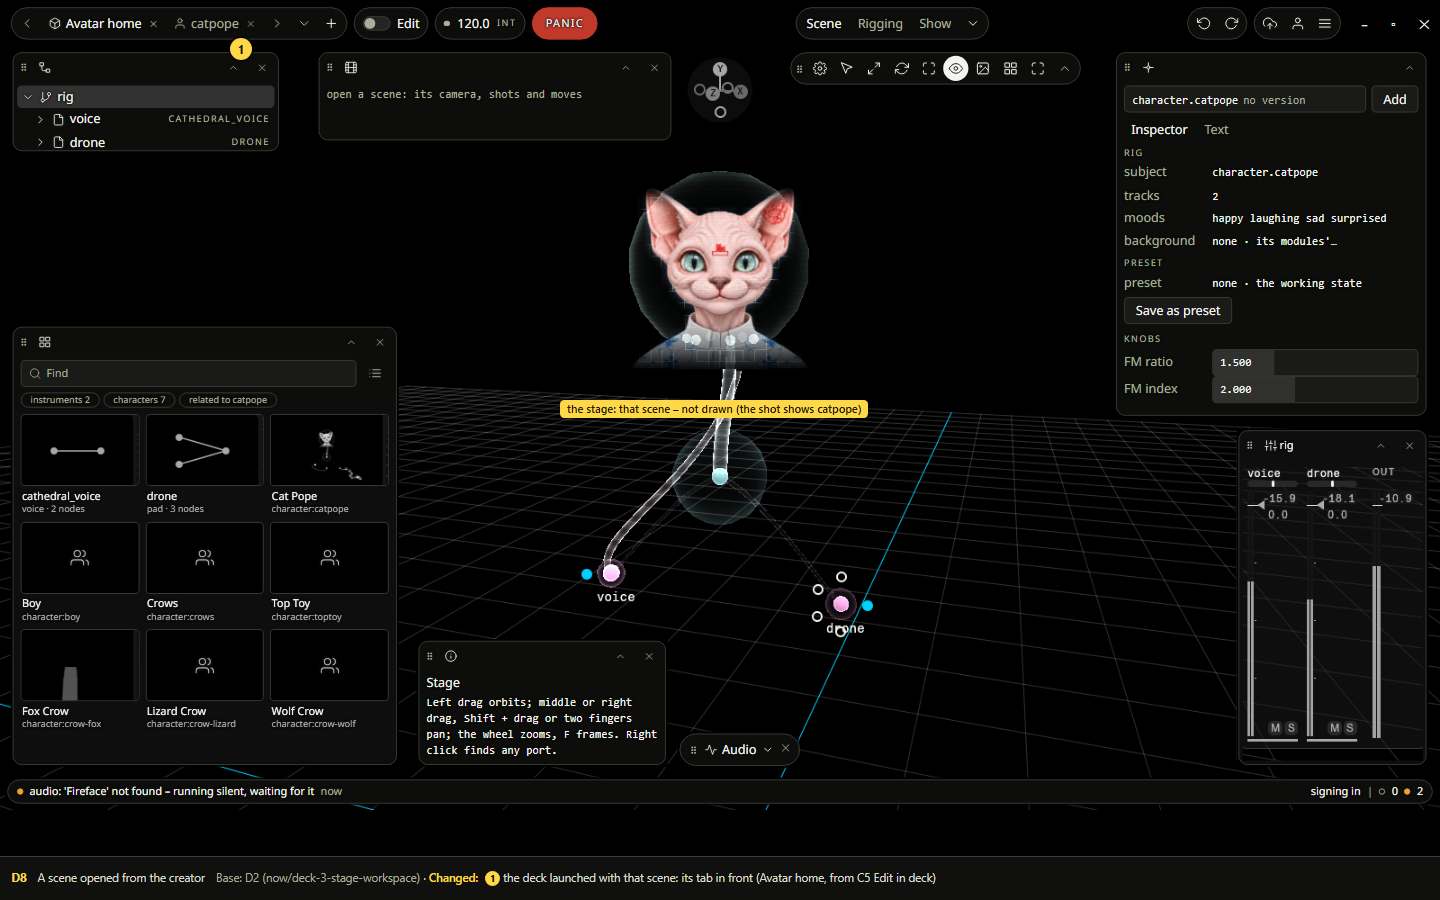
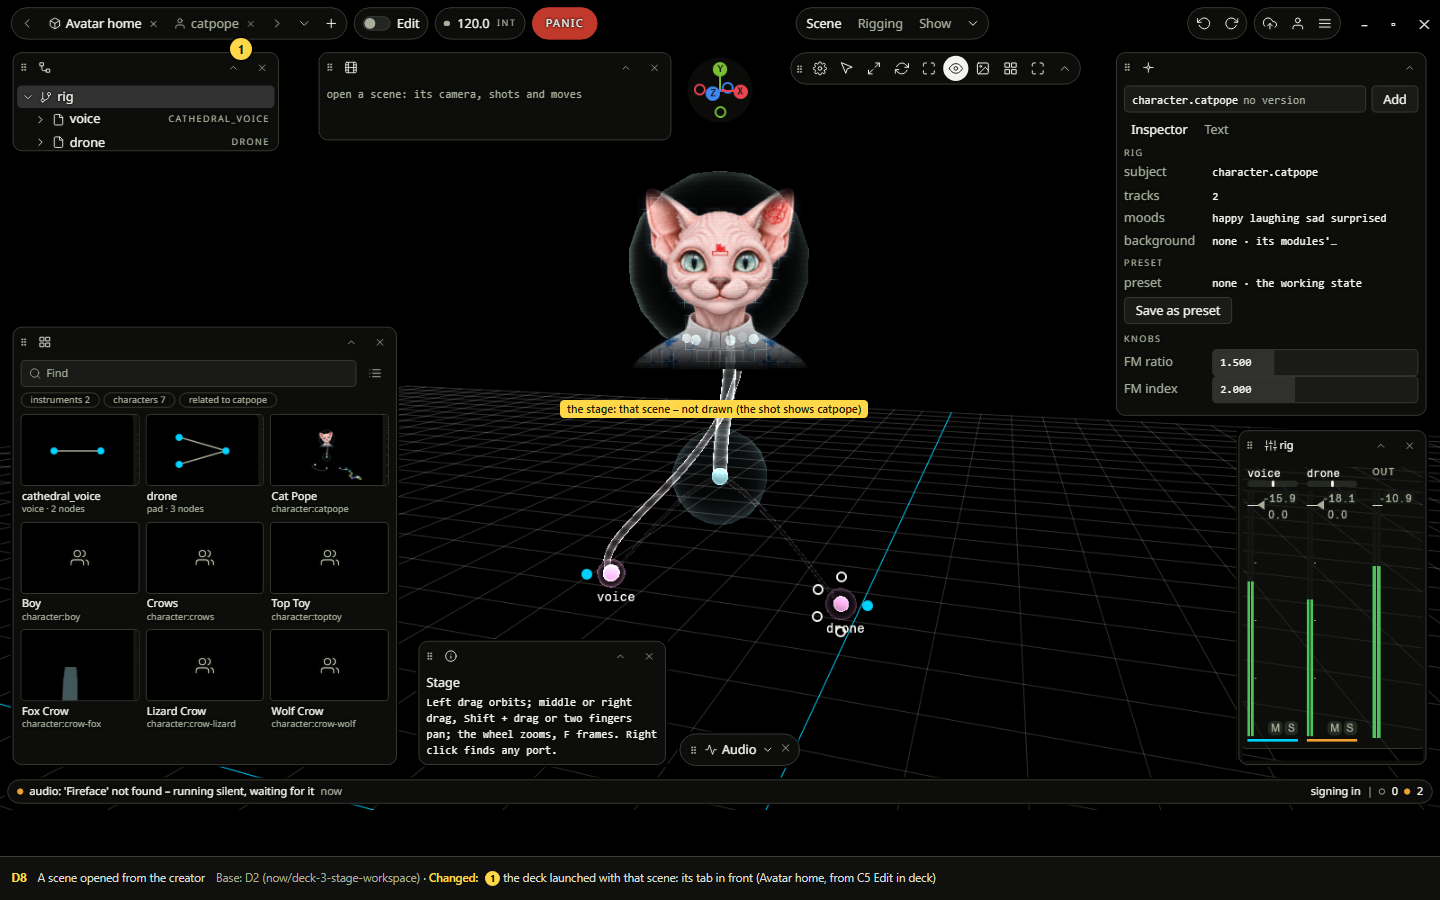
Lap 2 draft: what the UI shows keeps its colours – the deck's mixer, thumbnails and axis gizmo in colour again (DKNOCOL gone), the module code in its own colours (owner 2026-11-24). Refs #626

diff --git a/agents/research/redesign/lap2/draft-screens.js b/agents/research/redesign/lap2/draft-screens.js
@@ -255,12 +255,12 @@ add('C', 'C7', 'Flow', 'now/ws-flow (the Flow workspace, 2026-11-24)', [KIT],
     ${folded(1265, 70, 'Log')}${cstatus('No messages yet', '')}${mk(1, 1400, 92)}`;
   });
 
-add('C', 'C8', 'Sound design: the module editor', 'now/ws-sound (module:arp open, 2026-11-24) – the code is the capture in grey: its colours are not part of the kit', [],
+add('C', 'C8', 'Sound design: the module editor', 'now/ws-sound (module:arp open, 2026-11-24) – the code is the capture, in its own colours (what the UI shows keeps its colours)', [],
   () => `${cbar({ chevron: true, wsOn: 'Sound design', items: WS_ITEMS, front: 0 })}
   <div class="abs" style="left:14px;top:60px;right:396px;display:flex;align-items:center;gap:.5rem"><span class="mono" style="font-size:1.05rem">module:arp</span><span style="flex:1"></span><span class="kb primary">Derive</span><span class="kib alone">${ic('plus')}</span></div>
   <div class="abs" style="left:14px;top:100px;display:flex;gap:.2rem">${['Parameters','Nodes','Rust','Assignment'].map(t => `<span class="kt ${t === 'Rust' ? 'on' : ''}" style="height:1.9rem;font-size:var(--editor-small)">${t}</span>`).join('')}</div>
   <div class="abs" style="left:14px;top:138px;right:396px;display:flex;align-items:center;gap:.5rem"><span class="kt on" style="height:1.7rem;font-size:var(--editor-small)">lib.rs</span><span style="flex:1"></span><span class="label">a factory module is read-only</span></div>
-  ${wsCrop('sound', 0, 95, 585, 284, 14, 172, { style: 'width:1030px;border:1px solid var(--tool-line);border-radius:var(--editor-radius)', img: 'filter:grayscale(1)' })}
+  ${wsCrop('sound', 0, 95, 585, 284, 14, 172, { style: 'width:1030px;border:1px solid var(--tool-line);border-radius:var(--editor-radius)' })}
   ${fp(14, 690, 512, 130, [['Problems', 1]], '<span class="muted">no problems</span>')}
   ${fp(532, 690, 512, 130, [['Console', 1]], `<div class="mono small">arp 0.0.0 · ABI 2 · 8 params · 1 in · 1 out<br>loaded: module:arp</div>`, { icons: '<span class="kb" style="height:1.6rem;font-size:var(--editor-label)">Clear</span>' })}
   <div class="abs" style="left:1056px;top:60px"><span class="fld sel" style="width:7rem"><span class="muted">Mood</span>&nbsp;auto</span></div>
@@ -380,16 +380,14 @@ const DKKIT = "the panels on the kit, as kit-d.html: tabs without a border at re
 add('D', 'D1', 'The switcher over a workspace (Home stays when nothing is open)', 'now/deck-3-stage-workspace · A3 (the same design)',
   ['the bar, the stage and the panels are blurred behind – the switcher has no bar (press S: on and off)', 'the switcher as in A3, no Views on cards',
    "one list: the creator's workspaces too, with a quiet chip \"Creator\" – the same order in both apps"],
-  () => `${deckShot('deck-3-stage-workspace.png', deckBarNew({ wsOn: 0 }) + deckBuild() + DKNOCOL)}
+  () => `${deckShot('deck-3-stage-workspace.png', deckBarNew({ wsOn: 0 }) + deckBuild())}
   ${dashboard({ noSearch: true, cols: 6, focus: 0, review: false, cards: SW_DECK(),
     last: [['box','scene:avatar-home','Scene · now'],['user','catpope','Rigging · 20 min'],['list','new-show','Show · 1 h']] })}
   ${mk(1, 560, 30)}${mk(2, 146, 62)}${mk(3, 722, 298)}
   ${qcard(1010, 120, "does the deck's switcher show a Needs review box?", ['yes – the box as in the creator', 'no – left out (drawn dashed)'], '', '18rem')}`);
-/* palette D on the deck's screenshot: the mixer's meters, the Library's thumbnails and the axis gizmo without colour (today green, cyan, red) – a grey filter over those spots of the shot, in the deck's 1600-wide frame */
-const DKNOCOL = [[1378, 480, 205, 368], [16, 456, 424, 390], [764, 62, 74, 76]].map(([x, y, w, h]) => `<div style="position:absolute;left:${x}px;top:${y}px;width:${w}px;height:${h}px;z-index:30;pointer-events:none;backdrop-filter:grayscale(1);-webkit-backdrop-filter:grayscale(1)"></div>`).join('');
 add('D', 'D2', 'Build: Rig · Library · Inspector · Audio · Info · Mixer · Camera tools · Tools', 'now/deck-3-stage-workspace (catpope open in Build)',
   ['the shared bar (A1): the workspace row Scene · Rigging · Show', "Views: the ☰ menu's PANELS become Views (A2, B1)", DKKIT],
-  () => `${deckShot('deck-3-stage-workspace.png', deckBarNew({ wsOn: 0 }) + deckBuild() + DKNOCOL)}${mk(1, 640, 38)}${mk(2, 1318, 38)}${mk(3, 20, 330)}`);
+  () => `${deckShot('deck-3-stage-workspace.png', deckBarNew({ wsOn: 0 }) + deckBuild())}${mk(1, 640, 38)}${mk(2, 1318, 38)}${mk(3, 20, 330)}`);
 add('D', 'D3', 'Show: the rows band, Spores, Library', 'show.html `?v=0` (current: the bar without the Show pill, the views, the rows band, the Library) – from now/deck-3-show-workspace, now/deck-6-fires-on', [],
   () => `<iframe class="draft" src="show.html?v=0${DAY ? '&theme=day' : ''}"></iframe>`);
 add('D', 'D4', 'Module: Library · Drives · Module · Problems', 'now/deck-3-module-workspace', ['the shared bar (A1); Module open, so it shows in the row', 'Views (B1)', DKKIT],
@@ -398,13 +396,13 @@ add('D', 'D4b', 'Module: a module open', 'none – never captured', [],
   () => `${deckFrame(deckBarNew({ tabs: [['code','arp']], mode: false, wsNames: ['Scene','Rigging','Show','Module'], wsOn: 3 }) + `<div class="abs" style="left:14px;top:60px;width:1572px;height:790px">${notShot('a module open in the deck – never captured, not drawn')}</div>`)}
   ${capn(14, 820, 'Open: the module editor was never designed (P9) – Parameters, Problems, the module heard alone, Derive; the code in the external editor')}`, { idle: ' – nothing: an open point (words) – no capture of today' });
 add('D', 'D5', 'An asset open (character, module, video)', 'now/deck-3-stage-workspace (catpope, a character, open in Build)', ['the shared bar (A1)', 'Views (B1)', DKKIT],
-  () => `${deckShot('deck-3-stage-workspace.png', deckBarNew({ wsOn: 0 }) + deckBuild() + DKNOCOL)}${mk(1, 640, 38)}${mk(2, 1318, 38)}${mk(3, 20, 330)}${capn(14, 812, 'module and video assets: not captured – the same bar')}`);
+  () => `${deckShot('deck-3-stage-workspace.png', deckBarNew({ wsOn: 0 }) + deckBuild())}${mk(1, 640, 38)}${mk(2, 1318, 38)}${mk(3, 20, 330)}${capn(14, 812, 'module and video assets: not captured – the same bar')}`);
 add('D', 'D6', 'Rigging', 'crafts-v2 `rig` (#830, not on main), its palette moved to D', [],
   () => `<iframe class="draft" src="assets/drafts/crafts-v2.html?view=rig${DAY ? '&theme=day' : ''}"></iframe>`);
 add('D', 'D7', 'XR → a creator workspace', 'crafts-v2 `xr` → C15 (XR is a creator workspace)', [],
   () => `<iframe class="draft" src="assets/drafts/epic-drafts.html?s=714${DAY ? '&theme=day' : ''}"></iframe>${capn(600, 820, "dropped: XR is drawn as C15; the deck's workspaces are Scene · Rigging · Show")}`);
 add('D', 'D8', 'A scene opened from the creator', 'D2 (now/deck-3-stage-workspace)', ['the deck launched with that scene: its tab in front (Avatar home, from C5 Edit in deck)'],
-  () => `${deckShot('deck-3-stage-workspace.png', deckBarNew({ tabs: [['box','Avatar home'],['user','catpope']], wsOn: 0 }) + deckBuild() + DKNOCOL)}${mk(1, 230, 38)}${capn(560, 400, 'the stage: that scene – not drawn (the shot shows catpope)')}`);
+  () => `${deckShot('deck-3-stage-workspace.png', deckBarNew({ tabs: [['box','Avatar home'],['user','catpope']], wsOn: 0 }) + deckBuild())}${mk(1, 230, 38)}${capn(560, 400, 'the stage: that scene – not drawn (the shot shows catpope)')}`);
 
 /* ════════ E · feature designs already drawn ════════ */
 const fr = (f, q) => () => `<iframe class="draft" src="assets/drafts/${f}${q}${DAY ? '&theme=day' : ''}"></iframe>`;
